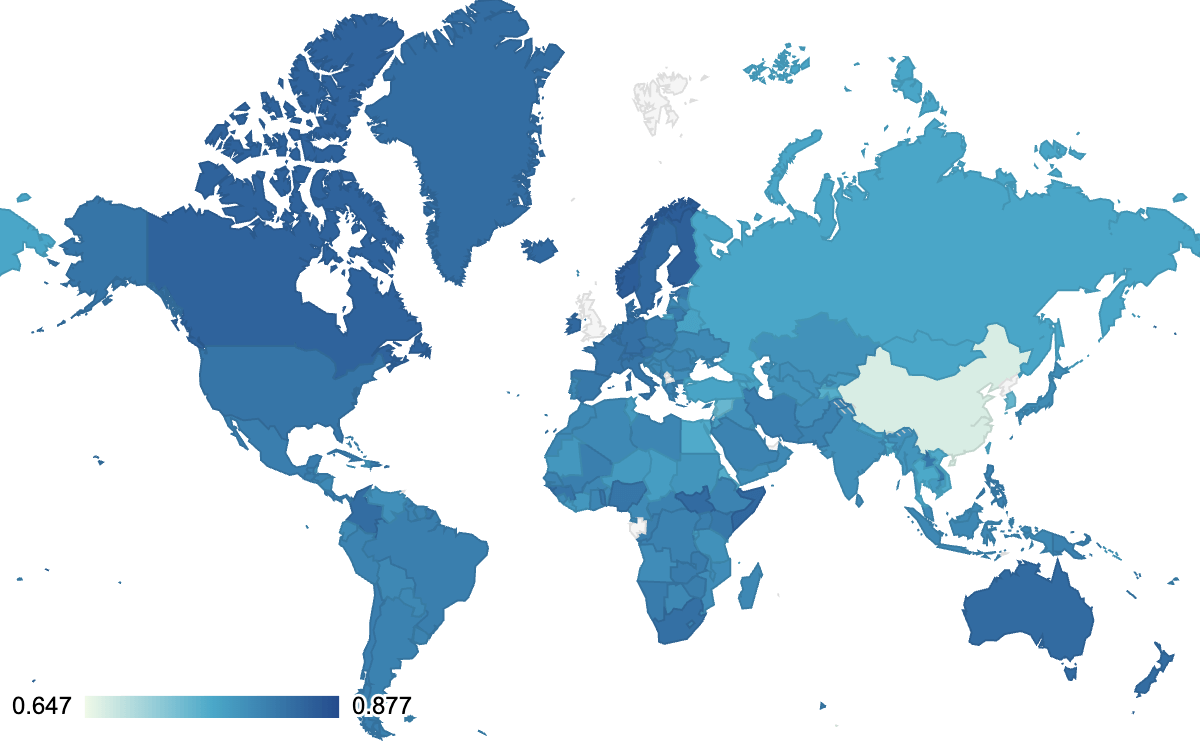
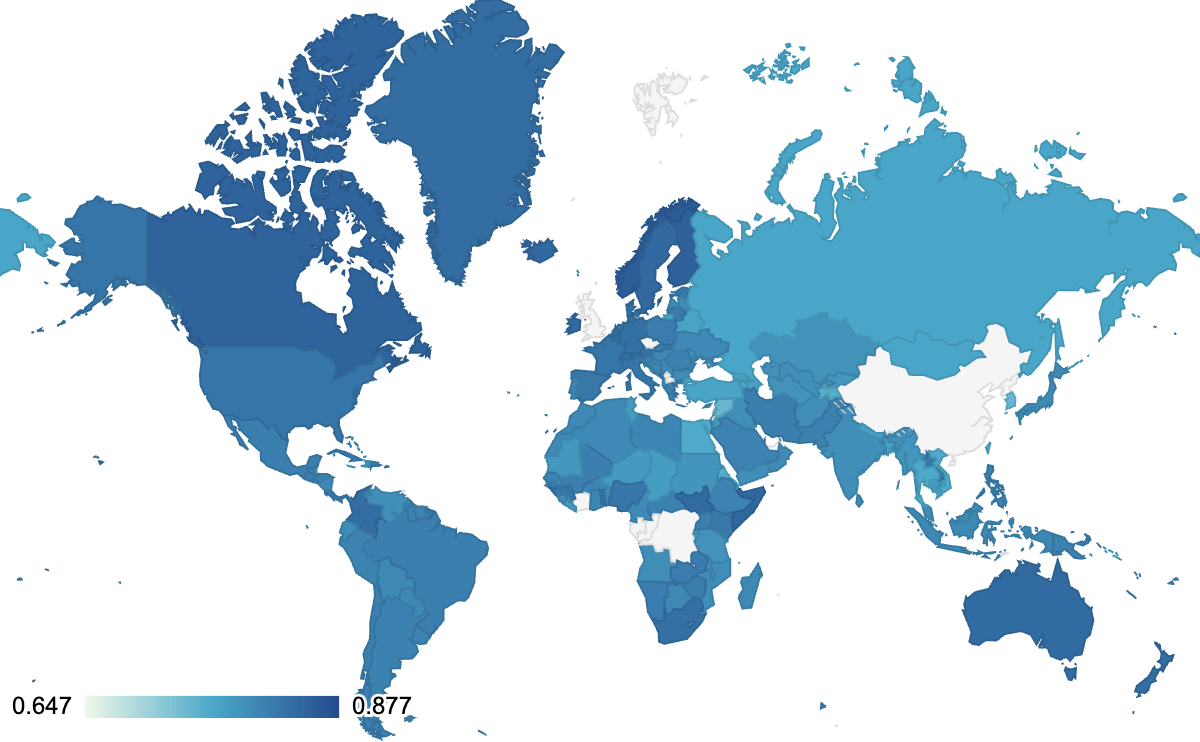
2024 Accessibilty chapter corrections (#3896)
* Update accessibility.md

Typo and incorrect link.  There is a duplicate image, not the bar chart that was described.

Also accessibility or Accessible was misspelled.

* Retake image

---------

diff --git a/src/content/en/2024/accessibility.md b/src/content/en/2024/accessibility.md
@@ -838,7 +838,7 @@ There are two means by which we can identify country information, first by the G
 
 {{ figure_markup(
   image="country-by-geoid.png",
-  caption="Most accessibile countries by GeoID.",
+  caption="Most accessible countries by GeoID.",
   description="A bar cart with the GeoID, the country with the highest average for accessibility is the USA with a value of 84%. There is a drop of less a perscent as we move to Canada, UK, Australia, Germany, Netherlands, France, Mexico, Italy, Spain, Argentina, Indonesia, India, Poland, Brazil, Japan, Turkey, Vietnam, China and finally the Republic of Korea with 78%. These were for countries that hosted more than 100000 domains.",
   chart_url="https://docs.google.com/spreadsheets/d/e/2PACX-1vQ32BLKultx6YJbcQP5DB6a4NTnf4h9RCC3QXte5oS-Onx-9cFqiPQ23dWgWgffj2QA1Q60zhrxJVYb/pubchart?oid=421126157&format=interactive",
   sheets_gid="260430925",
@@ -854,9 +854,9 @@ The following map shows the average desktop accessibility score by country top l
 
 {{ figure_markup(
   image="country-by-tld-globe.png",
-  caption="Map of the accessibile countries by Top Level Domain (TLD).",
+  caption="Map of the accessible countries by Top Level Domain (TLD).",
   description="In looking at Top Level Domains with more than 45,000 domains, we learn about accessibility. Displayed visually in a world map the most accessible countries are Norway, Filand, Canada, USA, UK, Sweden, Ireland, Australia, New Zealand, Austria, Belgium, Switzerland, Denmark, and South Africa. China is the least accessible by Top Level Domain. ",
-  chart_url="https://docs.google.com/spreadsheets/d/e/2PACX-1vQ32BLKultx6YJbcQP5DB6a4NTnf4h9RCC3QXte5oS-Onx-9cFqiPQ23dWgWgffj2QA1Q60zhrxJVYb/pubchart?oid=783736776&format=interactive",
+  chart_url="https://docs.google.com/spreadsheets/d/e/2PACX-1vQ32BLKultx6YJbcQP5DB6a4NTnf4h9RCC3QXte5oS-Onx-9cFqiPQ23dWgWgffj2QA1Q60zhrxJVYb/pubchart?oid=1241724533&format=interactive",
   sheets_gid="1209052596",
   sql_file="lighthouse_score_by_tld.sql"
   )
@@ -866,7 +866,7 @@ But it is a bit easier to see the TLD ranked and including the non-country codes
 
 {{ figure_markup(
   image="country-by-tld.png",
-  caption="Accessibile countries by Top Level Domain (TLD).",
+  caption="Accessible countries by Top Level Domain (TLD).",
   description="A bar cart with looking at Top Level Domains with more than 45,000 domains, we learn about accessibility. Displayed as a bar chart with the accessible domains .edu (Education), .gov (US Government), Norway, Filand, .io, Canada, USA, .app, UK, Sweden, Ireland, Australia, New Zealand, .co, Austria, Belgium, Switzerland, Denmark, and South Africa, .org.",
   chart_url="https://docs.google.com/spreadsheets/d/e/2PACX-1vQ32BLKultx6YJbcQP5DB6a4NTnf4h9RCC3QXte5oS-Onx-9cFqiPQ23dWgWgffj2QA1Q60zhrxJVYb/pubchart?oid=783736776&format=interactive",
   sheets_gid="1209052596",
